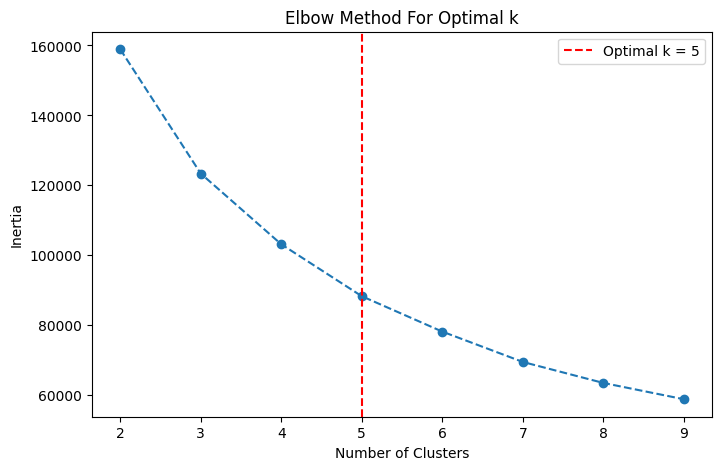
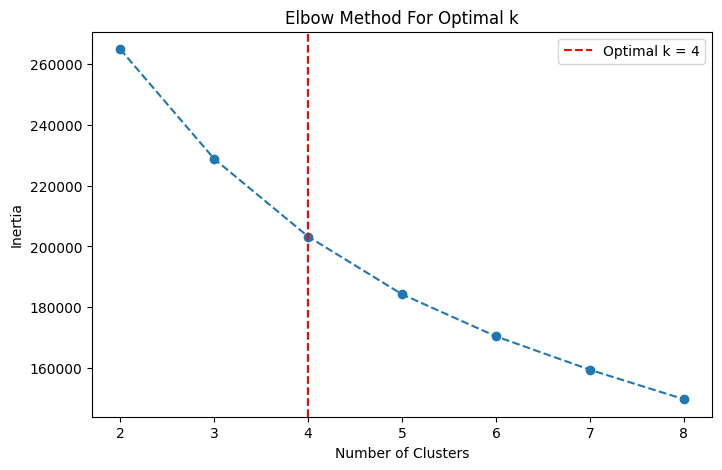
updating the pkl, images, streamlit app

diff --git a/diamond-streamlit.py b/diamond-streamlit.py
@@ -6,7 +6,7 @@ import pickle
 # --- Page Configuration ---
 st.set_page_config(page_title="Diamond Dynamics", page_icon="💎", layout="wide")
 
-# --- Load Models & Preprocessors ---
+# --- Load Models & Preprocessors safely ---
 @st.cache_resource
 def load_models():
     with open('diamond_models.pkl', 'rb') as f:
@@ -25,9 +25,9 @@ scaler = models['scaler']
 cut_map = models['cut_map']
 color_map = models['color_map']
 clarity_map = models['clarity_map']
-cluster_names = models['cluster_names']
 
-# This list contains ONLY the features selected by RFE during training
+# These dynamic variables ensure the app matches the exact outputs from RFECV and the Elbow Method
+cluster_names = models['cluster_names']
 feature_order = models['feature_order'] 
 
 # --- UI Design: Dynamic Sidebar ---
@@ -36,7 +36,7 @@ st.sidebar.markdown("*Inputs dynamically adapted based on optimal training featu
 
 input_data = {}
 
-# Dynamically render ONLY the inputs that the model requires
+# The UI will ONLY render inputs for the features present in the loaded model
 if 'carat' in feature_order:
     input_data['carat'] = st.sidebar.number_input("Carat", min_value=0.1, max_value=10.0, value=1.00, step=0.01)
 
@@ -53,11 +53,10 @@ if 'clarity_encoded' in feature_order:
     input_data['clarity_encoded'] = clarity_map[clarity]
 
 if 'depth' in feature_order:
-    # Capped at realistic limits to prevent K-Means distance hijacking
-    input_data['depth'] = st.sidebar.number_input("Depth %", min_value=40.0, max_value=75.0, value=61.50, step=0.1)
+    input_data['depth'] = st.sidebar.number_input("Depth %", min_value=40.0, max_value=85.0, value=61.50, step=0.1)
 
 if 'table' in feature_order:
-    input_data['table'] = st.sidebar.number_input("Table", min_value=40.0, max_value=75.0, value=57.00, step=0.1)
+    input_data['table'] = st.sidebar.number_input("Table", min_value=40.0, max_value=95.0, value=57.00, step=0.1)
 
 if 'x' in feature_order:
     input_data['x'] = st.sidebar.number_input("Length (x) in mm", min_value=0.1, max_value=15.0, value=6.00, step=0.01)
@@ -72,21 +71,23 @@ if 'z' in feature_order:
 st.title("💎 Diamond Dynamics: Pricing & Segmentation")
 st.markdown("Predict the market value and segment of a diamond based on its physical attributes.")
 
-# Debugging expander to verify active features
-with st.expander("View Active Model Features (Debugging)"):
-    st.write(f"The model is currently utilizing these {len(feature_order)} optimized features for prediction:")
+# Debugging expander to verify backend synchronization
+with st.expander("View Active Model Configuration (Debugging)"):
+    st.write(f"The model is currently utilizing these {len(feature_order)} optimized features:")
     st.code(feature_order)
+    st.write(f"Detected {len(cluster_names)} market segments:")
+    st.json(cluster_names)
 
 if st.sidebar.button("Predict"):
     # 1. Build DataFrame enforcing the exact structure from training
     input_df = pd.DataFrame([input_data])[feature_order]
     
-    # 2. Apply the scaler
+    # 2. Apply the universal scaler directly to the dynamic inputs
     input_scaled = scaler.transform(input_df)
     
     # 3. Generate Predictions
     predicted_price_log = reg_model.predict(input_scaled)[0]
-    predicted_price_inr = np.expm1(predicted_price_log) # Reverse the log transformation
+    predicted_price_inr = np.expm1(predicted_price_log) # Reverse log transformation
     
     predicted_cluster = cluster_model.predict(input_scaled)[0]
     segment_name = cluster_names.get(predicted_cluster, "Unknown Segment")
